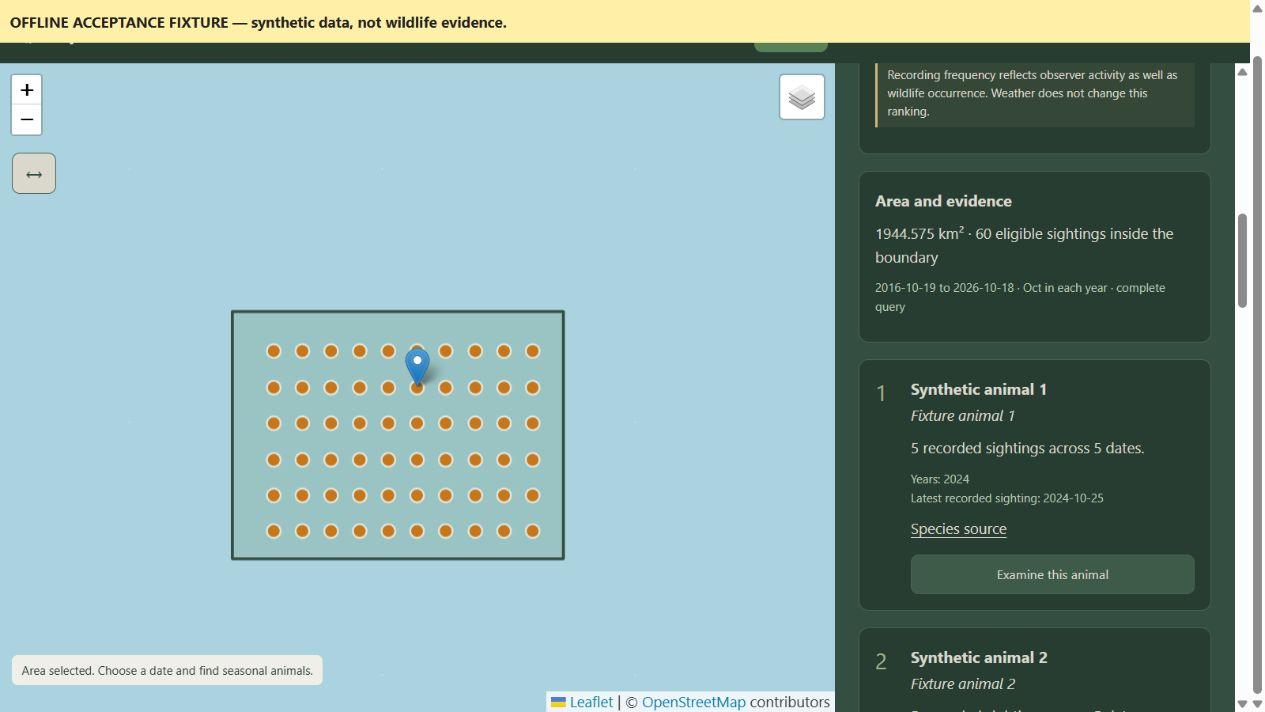
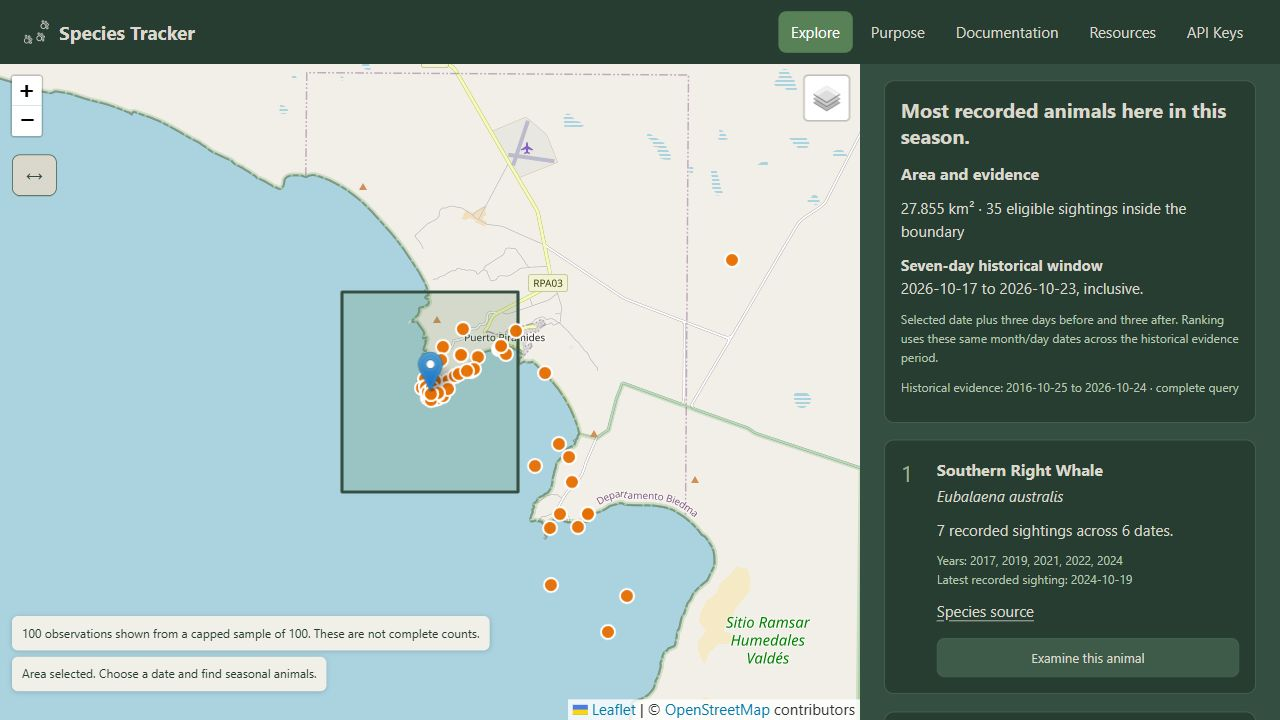
Refresh README with live examples and collapsible sections

diff --git a/README.md b/README.md
@@ -8,13 +8,17 @@ It is a focused portfolio project combining geographic analysis, public data ing
 
 ![Species Tracker: wildlife map and species analysis controls](docs/screenshots/desktop.jpg)
 
-*Current desktop interface. The orange grid shows recorded observations; it is not an animal-density or encounter-probability map.*
+*Desktop interface. The orange grid shows recorded observations; it is not an animal-density or encounter-probability map.*
 
 > Results describe historical recording frequency and relative modeled conditions. They are **not calibrated probabilities of seeing an animal**.
 
+Expand a section below for details.
+
 [Run locally](#run-locally) · [How the analyses work](#how-the-analyses-work) · [Examples](#examples) · [Evidence and limitations](#evidence-and-limitations) · [Development](#development) · [Sources and credits](#sources-and-credits)
 
-## What can I do with it?
+<a id="what-can-i-do-with-it"></a>
+<details>
+<summary><strong>What can I do with it?</strong></summary>
 
 | Your question | App workflow | What you get |
 | --- | --- | --- |
@@ -26,7 +30,11 @@ Search by common or scientific name, select an explicit Terrestrial or Marine se
 
 The map uses overview tiles when zoomed out and a capped sample of individual observations when zoomed in. Loading and updating indicators explain what is happening; previous points or the grid remain visible while a new view loads. Photos load when you open a point, with contributor credits and license information. Slow or failed requests offer Retry.
 
-## Run locally
+</details>
+
+<a id="run-locally"></a>
+<details>
+<summary><strong>Run locally</strong></summary>
 
 Open a terminal in the **project root**, the folder containing this README. Choose either Python or Docker; both serve the app at **[http://127.0.0.1:8000/](http://127.0.0.1:8000/)** and use the same port.
 
@@ -102,7 +110,11 @@ A personal key stays only in the page's memory and is cleared on refresh or when
 | The page still looks old | Reload with **Ctrl+F5** to refresh cached frontend assets. |
 | Sightings/weather are unavailable | Check the result's source error. External maintenance and request limits can prevent an analysis; a missing result does not mean animals are absent. |
 
-## How the analyses work
+</details>
+
+<a id="how-the-analyses-work"></a>
+<details>
+<summary><strong>How the analyses work</strong></summary>
 
 Two methods summarize observations. Two fit statistical models. The day comparison reuses an existing model rather than introducing another one.
 
@@ -157,9 +169,9 @@ Imputation is fitted separately inside each validation split. Held-out records u
 
 The result distinguishes complete, imputed, and excluded records. This method describes historical associations; it does not forecast your selected day's encounter.
 
-![Synthetic marine Random Forest example showing imputation counts and variable importance](docs/screenshots/random-forest.jpg)
+![Live Random Forest result for Otaria flavescens near Península Valdés, with variable importance and validation limitations](docs/screenshots/random-forest.jpg)
 
-*Offline acceptance example: 205 complete records and 35 retained through imputation. These are artificial test records, not evidence about a real species.*
+*Live capture, 2026-10-25: Otaria flavescens, Terrestrial, near Península Valdés, Argentina. The model retained 170 sightings and 170 backgrounds, with no imputation. Spatial validation did not meet the baseline rule, so these bars describe historical associations without establishing predictive skill. Sightings: iNaturalist; environmental data: Open-Meteo; map: © OpenStreetMap contributors.*
 
 <details>
 <summary>Model settings and imputation safeguards</summary>
@@ -183,9 +195,9 @@ It filters the polygon exactly, includes boundary points, combines subspecies un
 
 This is not ten environmental models. If fewer species have evidence, fewer than ten appear. Queries exceeding the configurable 5,000-record bounding-box cap—or interrupted pagination—fail explicitly rather than showing an incomplete ranking as complete.
 
-![Synthetic discovery example showing a polygon and seasonal species evidence](docs/screenshots/discovery.jpg)
+![Live Animals Nearby result near Península Valdés, showing the centered seven-day window and recorded species](docs/screenshots/discovery.jpg)
 
-*Offline acceptance example from the earlier interface; current discovery uses the selected date ±3 days. The polygon, species names, and sightings are test fixtures; they demonstrate the workflow rather than a real animal distribution.*
+*Live iNaturalist capture, 2026-10-25, near Puerto Pirámides, Península Valdés, Argentina. The 27.855 km² polygon contains 35 eligible historical sightings for 17–23 October. The ranking begins with Southern Right Whale (7) and South American Sea Lion (6). Recording frequency reflects observer activity as well as wildlife occurrence. Map: © OpenStreetMap contributors.*
 
 ### When should I go?: compare supported days
 
@@ -219,7 +231,11 @@ Both include month sine/cosine features, keeping December adjacent to January. E
 
 For an environmental assessment or day ranking, each holdout must have higher AUC than the seasonal baseline and balanced accuracy at least as high. If either holdout cannot be evaluated, the result is marked experimental. These are classifier diagnostics on single holdouts, not field-visit success rates or statistical significance tests.
 
-## Examples
+</details>
+
+<a id="examples"></a>
+<details>
+<summary><strong>Examples</strong></summary>
 
 Try these public study locations after starting the app. Select the resolved autocomplete result, choose the setting, enter the coordinates, and use today's date. Start with Historical Profile to inspect recorded evidence, then try Environmental Outlook or Key Factors.
 
@@ -230,7 +246,9 @@ Try these public study locations after starting the app. Select the resolved aut
 
 Use a sample cap of 100 for the walkthrough. The study radius starts at 5 km and can expand to 50 km. A result reporting insufficient evidence or withholding a ranking is a valid outcome.
 
-**Live validation status:** the saved 2026-10-16 walkthrough attempts were blocked by iNaturalist maintenance. They contain no real ecological validation scores. Successful screenshots and masked-data experiments are explicitly synthetic where applicable; do not interpret them as validated orca or puma predictions.
+**Live screenshots:** the Random Forest and Animals Nearby images above were captured on 2026-10-25 using live public data near Península Valdés. The Random Forest example uses *Otaria flavescens*, Terrestrial, coordinates `-42.58579972530433, -64.3080837731745`, a 5 km initial radius, and a cap of 500. For discovery, draw a coastal area near that point and select `2026-10-20`. See the [capture evidence](docs/examples/readme-live-captures.json) for the exact polygon, counts, source timestamps, and diagnostics. Live data can change; these are descriptive examples, not validated encounter forecasts.
+
+The older 2026-10-16 orca/puma walkthrough attempts were blocked by iNaturalist maintenance and remain historical records. Masked-data experiments and the acceptance server below use explicitly synthetic data.
 
 For reproducible demonstrations without sightings/weather API calls:
 
@@ -242,7 +260,11 @@ Open **[http://127.0.0.1:8002/fixture](http://127.0.0.1:8002/fixture)**. Search 
 
 See [portfolio walkthroughs](docs/portfolio-cases.md) for live/synthetic reproduction commands and [validation evidence](docs/validation.md) for the masked-data comparison against median filling. The saved synthetic experiment had lower reconstruction error with proximity imputation; this does not guarantee improvement on real or differently missing data.
 
-## Evidence and limitations
+</details>
+
+<a id="evidence-and-limitations"></a>
+<details>
+<summary><strong>Evidence and limitations</strong></summary>
 
 - Observations come from iNaturalist: research-grade, georeferenced, non-captive records for analysis/discovery. Recording frequency reflects observer effort, accessibility, and identification as well as wildlife occurrence.
 - Species analyses use a capped local sample: 200 sightings by default, adjustable from 100 to 500. Historical monthly counts may therefore be incomplete. The zoomed-in map is also a disclosed capped sample, not a complete survey.
@@ -253,7 +275,11 @@ See [portfolio walkthroughs](docs/portfolio-cases.md) for live/synthetic reprodu
 
 The project stays focused on wildlife visit planning: no accounts, tracking telemetry, or additional biodiversity-platform integrations are required for these workflows.
 
-## Development
+</details>
+
+<a id="development"></a>
+<details>
+<summary><strong>Development</strong></summary>
 
 **Python 3.12 · FastAPI · Leaflet · scikit-learn · Shapely/PyProj · optional Google Gen AI SDK**
 
@@ -266,7 +292,11 @@ The maintained suite is intentionally limited to **three test files**: API valid
 - [Validation evidence](docs/validation.md): test runs, source limitations, and measured imputation results.
 - [Pinned Python dependencies](backend/requirements-lock.txt) and [GitLab CI](.gitlab-ci.yml).
 
-## Sources and credits
+</details>
+
+<a id="sources-and-credits"></a>
+<details>
+<summary><strong>Sources and credits</strong></summary>
 
 Species Tracker builds on the work of data contributors, designers, and open-source maintainers. The original image credits and resource links are preserved below, including assets and references retained from earlier versions. Third-party material remains subject to its own license; these acknowledgments do not relicense it.
 
@@ -301,7 +331,7 @@ Observation photographs belong to their contributors. The interface retains supp
 
 Open-Meteo API data are offered under [CC BY 4.0](https://creativecommons.org/licenses/by/4.0/); API access is also subject to separate [service terms](https://open-meteo.com/en/terms). Preserve data and map credits when sharing results or screenshots.
 
-The [desktop](docs/screenshots/desktop.jpg), [discovery](docs/screenshots/discovery.jpg), and [Random Forest](docs/screenshots/random-forest.jpg) images above capture Species Tracker's interface. The latter two use explicitly labeled synthetic fixture evidence. Map imagery remains third-party material, and the screenshots retain visible map credits.
+The [desktop](docs/screenshots/desktop.jpg), [discovery](docs/screenshots/discovery.jpg), and [Random Forest](docs/screenshots/random-forest.jpg) images above capture Species Tracker's interface. Discovery and Random Forest use live iNaturalist results captured on 2026-10-25; the Random Forest also uses Open-Meteo environmental data. Their captions and [capture evidence](docs/examples/readme-live-captures.json) record provenance and limitations. Map imagery remains third-party material, and the screenshots retain visible map credits. No observation photographs are reproduced in these screenshots.
 
 ### Software and statistical references
 
@@ -329,3 +359,5 @@ These links acknowledge resources used or considered during development. They ar
 | [Movebank API documentation](https://github.com/movebank/movebank-api-doc/blob/master/movebank-api.md) | Previously considered future data source; no Movebank integration is included. |
 
 The in-app Resources tab provides additional links to current tools and documentation. Acknowledgment of a source does not imply its endorsement of Species Tracker.
+
+</details>

diff --git a/docs/validation.md b/docs/validation.md
@@ -1,3 +1,13 @@
+# README live screenshots and collapsible sections · 2026-10-25
+
+Replaced the synthetic Random Forest and Animals Nearby screenshots with unmodified captures of the production application using live public data near Puerto Pirámides, Península Valdés. The terrestrial Otaria flavescens Random Forest retained 170 sightings and 170 backgrounds without imputation; its visible warning preserves the spatial-validation limitation. Discovery used October 17–23 across the ten-year evidence period, with 35 eligible observations inside the drawn 27.855 km² polygon; Southern Right Whale (7) and South American Sea Lion (6) lead the ranking. Exact requests, polygon, source timestamps, counts, and diagnostics are saved in `docs/examples/readme-live-captures.json`.
+
+Both 1280 × 720 screenshots retain visible OpenStreetMap attribution and reproduce no observation photographs. Captions and source credits distinguish these live examples from the retained synthetic acceptance tools and older maintenance snapshots. All existing external source and icon-credit URLs remain present. The introduction remains visible, and all seven main sections below it use closed, keyboard-accessible details controls with stable navigation anchors.
+
+Documentation checks cover balanced nested details, seven collapsed main sections, local links, preserved external credits, and evidence metadata. Screenshot framing and attribution were inspected visually. Application code and the same three maintained test files are unchanged; backend tests and Docker were not rerun for this documentation-only change.
+
+---
+
 # Centered discovery week and direct day comparison · 2026-10-25
 
 Animals Nearby now matches seven calendar dates centered on the selected date (three before, that date, three after) across the existing ten-year historical evidence period. Date previews and results disclose both endpoints. Separate month/day requests handle month/year crossings under one shared cap; exact server filtering rechecks dates and polygon membership. Window-versioned cache keys prevent monthly or neighboring-window reuse. Old saved monthly results are explicitly identified. Weather remains separate context for the selected central date.
